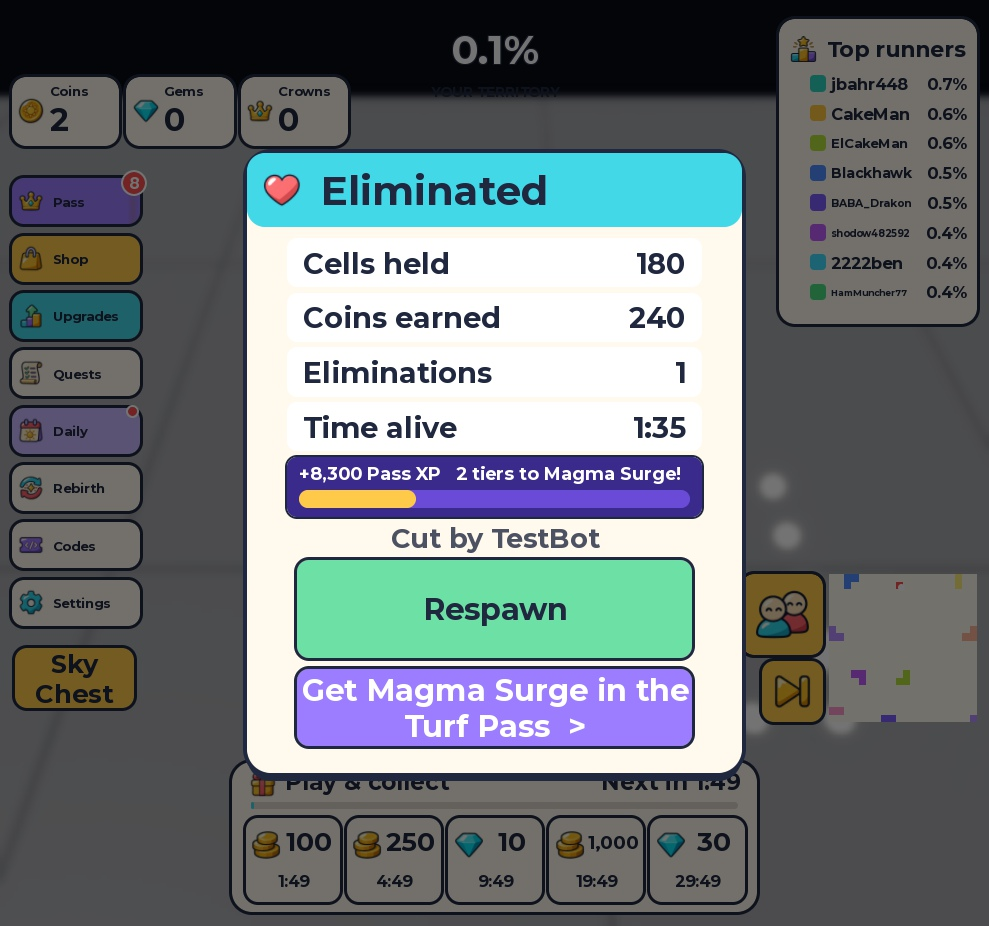
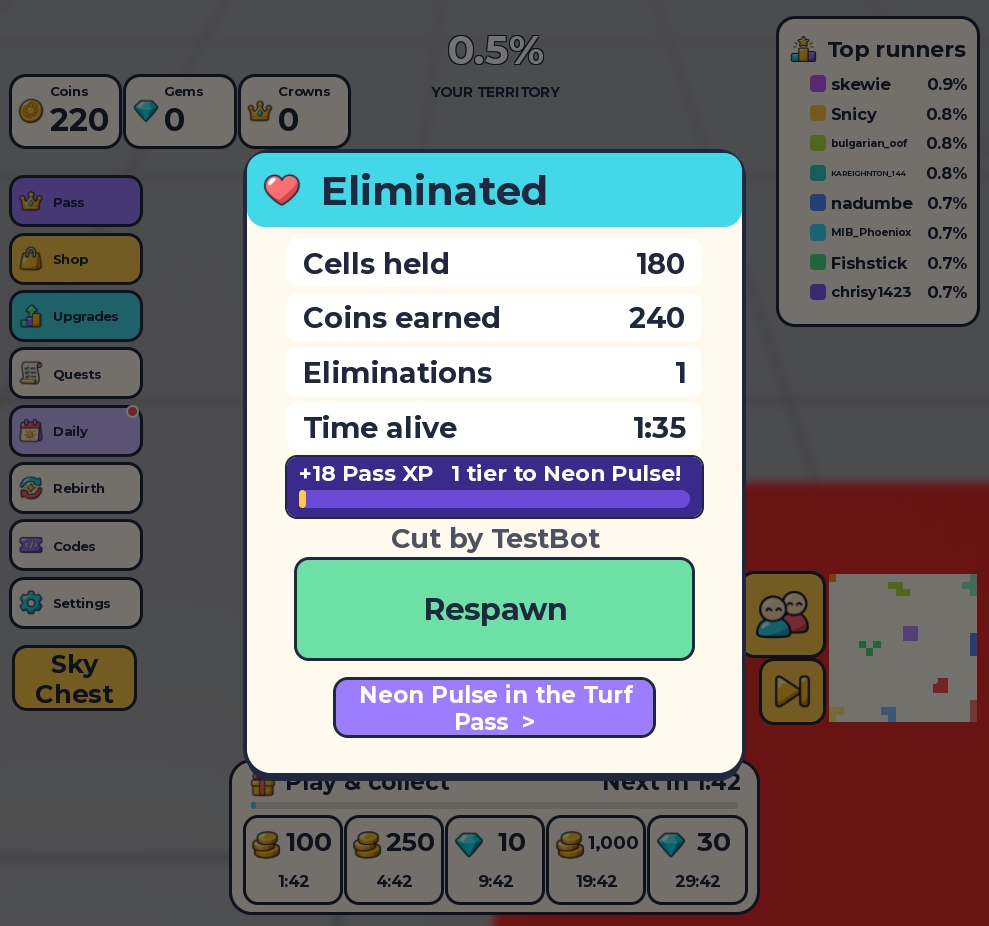
Turf Pass round 5: phone layout (wider buy zone, 12 px text floor), tag above +10 tiers, smaller round-end upsell, value line in two groups, popup button padding

diff --git a/docs/BATTLEPASS_STATUS.md b/docs/BATTLEPASS_STATUS.md
@@ -1,6 +1,6 @@
 # Battle pass build status
 
-Heartbeat: 2026-11-18 04:30 local, lead session (interactive)
+Heartbeat: 2026-11-18 05:10 local, lead session (interactive)
 
 Design: `docs/BATTLEPASS.md`. Owner decisions: Premium 399 R$, Premium+ 799 R$ (+10 tiers), 14-day seasons, 30 tiers.
 Product ids stay 0 until the owner creates them on the dashboard or approves creation (paid items).
